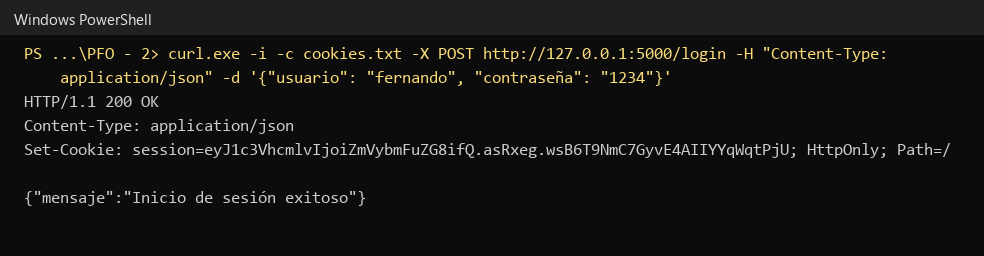
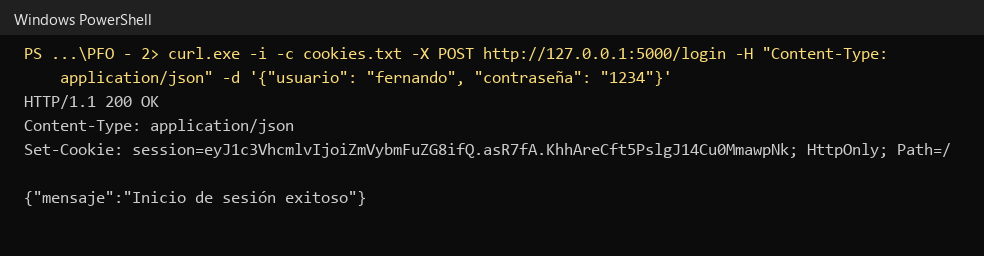
Formularios de login y registro, manejo de errores de base de datos y ampliación de pruebas y documentación

Changed region(s): [[0.5183, 0.5625, 0.8232, 0.625]]

diff --git a/docs/index.html b/docs/index.html
@@ -31,6 +31,7 @@
         <tr><td>POST</td><td><code>/registro</code></td><td>Crea un usuario con <code>{"usuario": "...", "contraseña": "..."}</code> y guarda el hash en SQLite.</td></tr>
         <tr><td>POST</td><td><code>/login</code></td><td>Verifica las credenciales e inicia la sesión.</td></tr>
         <tr><td>GET</td><td><code>/tareas</code></td><td>Muestra el HTML de bienvenida. Requiere sesión iniciada.</td></tr>
+        <tr><td>GET</td><td><code>/login</code> y <code>/registro</code></td><td>Formularios HTML para usar la API desde el navegador.</td></tr>
     </table>
 
     <h2>Ejecución</h2>
@@ -39,6 +40,7 @@ python servidor.py
 python cliente.py   # en otra terminal</pre>
 
     <h2>Pruebas realizadas</h2>
+    <p>Se ejecutaron 67 casos automatizados contra el servidor en funcionamiento (funcionalidad de la API, validación de entradas, caracteres especiales, seguridad, formularios y navegador, concurrencia, persistencia, errores de infraestructura y cliente de consola) y un recorrido manual completo en un navegador. Todos dieron el resultado esperado. El detalle está en el README del repositorio.</p>
     <figure>
         <img src="capturas/01-registro.png" alt="Registro de usuario">
         <figcaption>Registro de usuario (201).</figcaption>
@@ -62,6 +64,14 @@ python cliente.py   # en otra terminal</pre>
     <figure>
         <img src="capturas/06-cliente-consola.png" alt="Cliente de consola">
         <figcaption>Sesión completa con el cliente de consola.</figcaption>
+    </figure>
+    <figure>
+        <img src="capturas/07-navegador-login.png" alt="Formulario de login en el navegador">
+        <figcaption>Formulario de inicio de sesión en el navegador.</figcaption>
+    </figure>
+    <figure>
+        <img src="capturas/08-navegador-acceso-restringido.png" alt="Acceso restringido a /tareas">
+        <figcaption>Acceso a <code>/tareas</code> sin sesión desde un navegador.</figcaption>
     </figure>
 
     <h2>Respuestas conceptuales</h2>

diff --git a/servidor.py b/servidor.py
@@ -4,7 +4,7 @@ import socket
 import sqlite3
 import datetime
 
-from flask import Flask, jsonify, request, session
+from flask import Flask, jsonify, redirect, request, session
 from markupsafe import escape
 from werkzeug.security import generate_password_hash, check_password_hash
 
@@ -20,6 +20,62 @@ app.json.ensure_ascii = False
 # Clave con la que Flask firma la cookie de sesión. Se puede fijar con la variable de
 # entorno SECRET_KEY; si no existe se genera una aleatoria (las sesiones no sobreviven al reinicio)
 app.secret_key = os.environ.get("SECRET_KEY", secrets.token_hex(32))
+
+
+# Plantilla HTML de los formularios que se usan desde el navegador (registro y login).
+# Los marcadores __X__ se reemplazan en pagina_formulario()
+FORMULARIO = """<!DOCTYPE html>
+<html lang="es">
+<head>
+    <meta charset="utf-8">
+    <title>__TITULO__</title>
+    <style>
+        body { font-family: sans-serif; max-width: 360px; margin: 3rem auto; }
+        input, button { display: block; width: 100%; margin: 0.5rem 0; padding: 0.5rem; box-sizing: border-box; }
+    </style>
+</head>
+<body>
+    <h1>__TITULO__</h1>
+    <form id="formulario">
+        <input id="usuario" placeholder="Usuario" required>
+        <input id="contrasenia" type="password" placeholder="Contraseña" required>
+        <button type="submit">__BOTON__</button>
+    </form>
+    <p id="mensaje"></p>
+    <p><a href="__ENLACE__">__TEXTO_ENLACE__</a></p>
+    <script>
+        // Envía las credenciales como JSON al endpoint POST y muestra la respuesta del servidor
+        const destino = "__DESTINO__";
+        document.getElementById("formulario").addEventListener("submit", async (evento) => {
+            evento.preventDefault();
+            const respuesta = await fetch("__RUTA__", {
+                method: "POST",
+                headers: {"Content-Type": "application/json"},
+                body: JSON.stringify({
+                    usuario: document.getElementById("usuario").value,
+                    "contraseña": document.getElementById("contrasenia").value
+                })
+            });
+            const datos = await respuesta.json();
+            document.getElementById("mensaje").textContent = datos.mensaje || datos.error;
+            if (respuesta.ok) { window.location = destino; }
+        });
+    </script>
+</body>
+</html>"""
+
+# Página que ve el navegador al pedir /tareas sin haber iniciado sesión
+ACCESO_RESTRINGIDO = """<!DOCTYPE html>
+<html lang="es">
+<head>
+    <meta charset="utf-8">
+    <title>Acceso restringido</title>
+</head>
+<body>
+    <h1>Acceso restringido</h1>
+    <p>Para ver las tareas primero hay que <a href="/login">iniciar sesión</a>.</p>
+</body>
+</html>"""
 
 
 def conectar_bd():
@@ -60,6 +116,34 @@ def leer_credenciales():
     if not usuario or not contrasenia:
         return None, None
     return usuario, contrasenia
+
+
+def pagina_formulario(titulo, boton, ruta, destino, enlace, texto_enlace):
+    # Arma la página con el formulario que envía los datos a la ruta POST indicada
+    pagina = FORMULARIO
+    for marcador, valor in (("__TITULO__", titulo), ("__BOTON__", boton), ("__RUTA__", ruta),
+                            ("__DESTINO__", destino), ("__ENLACE__", enlace), ("__TEXTO_ENLACE__", texto_enlace)):
+        pagina = pagina.replace(marcador, valor)
+    return pagina
+
+
+# La raíz redirige al formulario de login
+@app.route("/", methods=["GET"])
+def inicio():
+    return redirect("/login")
+
+
+# Formularios para usar la API desde el navegador (GET); el procesamiento está en las rutas POST
+@app.route("/registro", methods=["GET"])
+def pagina_registro():
+    return pagina_formulario("Registro de usuario", "Registrarse", "/registro", "/login",
+                             "/login", "Ya tengo cuenta: iniciar sesión")
+
+
+@app.route("/login", methods=["GET"])
+def pagina_login():
+    return pagina_formulario("Iniciar sesión", "Ingresar", "/login", "/tareas",
+                             "/registro", "Crear una cuenta")
 
 
 # Endpoint de registro: guarda el usuario con la contraseña hasheada
@@ -122,6 +206,10 @@ def login():
 def tareas():
     usuario = session.get("usuario")
     if usuario is None:
+        # Un navegador (su cabecera Accept nombra text/html) recibe una página con el enlace
+        # al login; el resto de los clientes (curl, requests envían */*) reciben el error en JSON
+        if "text/html" in request.headers.get("Accept", ""):
+            return ACCESO_RESTRINGIDO, 401
         return jsonify(error="Acceso denegado: primero hay que iniciar sesión en /login"), 401
 
     # escape() evita que un nombre de usuario con HTML se interprete como código (XSS)
@@ -153,7 +241,12 @@ def puerto_disponible():
 
 
 if __name__ == "__main__":
-    inicializar_bd()
+    try:
+        inicializar_bd()
+    except sqlite3.Error as error:
+        print(f"No se pudo acceder a la base de datos: {error}")
+        raise SystemExit(1)
+
     if not puerto_disponible():
         print(f"No se pudo iniciar el servidor: el puerto {PORT} ya está en uso.")
     else:

diff --git a/README.md b/README.md
@@ -34,6 +34,7 @@ Consigna de la cátedra: implementar una API REST con endpoints funcionales, aut
 - Almacenamiento de contraseñas con `generate_password_hash` (scrypt con sal aleatoria).
 - Inicio de sesión que verifica el hash y abre una sesión mediante una cookie firmada.
 - Ruta `/tareas` protegida: responde 401 sin sesión y devuelve un HTML de bienvenida con sesión iniciada.
+- Formularios HTML en `/registro` y `/login` (método GET) para usar la API desde el navegador, y redirección de `/` al login. Un navegador que pide `/tareas` sin sesión recibe una página con el enlace al login.
 - Códigos de estado HTTP coherentes (201, 200, 400, 401, 409, 500) y respuestas de error en JSON.
 - Detección de puerto ocupado antes de iniciar el servidor.
 - Cliente de consola con menú, manejo de servidor caído y lectura de la contraseña sin eco.
@@ -120,6 +121,8 @@ Debe mostrar `Running on http://127.0.0.1:5000`. Al iniciar crea el archivo `usu
 python cliente.py
 ```
 
+3. Uso desde el navegador: abrir http://127.0.0.1:5000/ (redirige al login). El flujo es: crear una cuenta en `/registro`, iniciar sesión en `/login` y ver la bienvenida en `/tareas`.
+
 Variable opcional: `SECRET_KEY` define la clave con la que se firma la cookie de sesión. Si no se define, se genera una aleatoria al iniciar y las sesiones se pierden al reiniciar el servidor.
 
 ```
@@ -171,7 +174,16 @@ Devuelve el HTML de bienvenida. Requiere la cookie de sesión obtenida en `/logi
 | Código | Cuerpo | Cuándo |
 |---|---|---|
 | 200 | HTML con `¡Bienvenido, <usuario>!` | Sesión iniciada |
-| 401 | `{"error": "Acceso denegado: primero hay que iniciar sesión en /login"}` | Sin sesión |
+| 401 | `{"error": "Acceso denegado: primero hay que iniciar sesión en /login"}` | Sin sesión, cliente que no es un navegador (curl, requests) |
+| 401 | Página HTML "Acceso restringido" con enlace a `/login` | Sin sesión, navegador (la cabecera `Accept` incluye `text/html`) |
+
+### Rutas para el navegador
+
+| Método | Ruta | Respuesta |
+|---|---|---|
+| GET | `/` | Redirección 302 a `/login` |
+| GET | `/login` | Formulario HTML de inicio de sesión; envía los datos como JSON a `POST /login` y, si son correctos, redirige a `/tareas` |
+| GET | `/registro` | Formulario HTML de registro; envía los datos como JSON a `POST /registro` y, si son correctos, redirige a `/login` |
 
 ### Ejemplos con curl
 
@@ -230,23 +242,21 @@ Formato del hash almacenado: `scrypt:32768:8:1$<sal>$<hash>`, donde 32768, 8 y 1
 
 ## Pruebas
 
-Las pruebas se ejecutaron con el servidor en `127.0.0.1:5000`. Resultados verificados:
+Las pruebas se ejecutaron contra el servidor real (`127.0.0.1:5000`) con Python 3.9, Flask 3.1 y SQLite 3.44, en Windows 11. Se realizaron 67 casos automatizados contra el servidor en ejecución y un recorrido completo manual en un navegador. Todos dieron el resultado esperado.
 
-| N.° | Caso | Resultado esperado | Resultado |
-|---|---|---|---|
-| 1 | `GET /tareas` sin sesión | 401 | Correcto |
-| 2 | `POST /registro` con datos válidos | 201 | Correcto |
-| 3 | `POST /registro` con un usuario ya existente | 409 | Correcto |
-| 4 | `POST /registro` con un cuerpo que no es JSON | 400 | Correcto |
-| 5 | `POST /registro` sin el campo `contraseña` | 400 | Correcto |
-| 6 | `POST /registro` con campos que no son texto | 400 | Correcto |
-| 7 | `POST /login` con contraseña incorrecta | 401 | Correcto |
-| 8 | `POST /login` con un usuario inexistente | 401 | Correcto |
-| 9 | `POST /login` con credenciales correctas | 200 y cookie de sesión | Correcto |
-| 10 | `GET /tareas` con la cookie de sesión | 200 y HTML de bienvenida | Correcto |
-| 11 | Usuario con etiquetas HTML en el nombre | El HTML se muestra escapado | Correcto |
-| 12 | Contenido de la tabla `usuarios` | `password_hash` sin texto plano | Correcto |
-| 13 | Segundo `python servidor.py` con el puerto ocupado | Mensaje de error y salida sin iniciar | Correcto |
+| Categoría | Casos | Qué se verifica |
+|---|---|---|
+| Funcionalidad de la API | 7 | Registro (201), usuario repetido (409), login correcto (200), contraseña incorrecta y usuario inexistente (401), `/tareas` con y sin sesión |
+| Validación de entradas y rutas | 16 | Cuerpo que no es JSON, JSON malformado, lista o nulos, campos ausentes, vacíos o que no son texto, espacios en el nombre, `Content-Type` incorrecto, usuario de 5000 caracteres, métodos no permitidos (405) y rutas inexistentes (404) |
+| Caracteres especiales y datos extremos | 4 | Acentos, ñ y emoji en usuario y contraseña, contraseña de 100000 caracteres |
+| Seguridad | 14 | Inyección SQL (4 variantes en login y una en registro), integridad de la tabla, XSS en el nombre, cookie adulterada, inventada o basura, cookie legítima, atributo HttpOnly, hash almacenado sin texto plano |
+| Navegador y formularios | 8 | `/` redirige a `/login`, formularios de login y registro, página de acceso restringido para navegadores y JSON para otros clientes, cabecera `Accept` real de Chrome |
+| Concurrencia | 2 | 25 registros simultáneos del mismo usuario: exactamente un 201, 24 respuestas 409 y una sola fila en la base |
+| Persistencia y sesión | 4 | Los usuarios persisten al reiniciar el servidor; la sesión sigue válida con la misma `SECRET_KEY` y deja de serlo con otra |
+| Errores de infraestructura | 4 | Segundo servidor con el puerto ocupado, base de datos inaccesible al iniciar (mensaje claro, sin traceback), tabla inexistente en funcionamiento (500 en JSON) |
+| Cliente de consola | 8 | Registro, usuario repetido, login incorrecto y correcto, ver tareas, opción inválida, usuario vacío, servidor caído |
+
+Recorrido manual en el navegador: `/tareas` sin sesión muestra la página de acceso restringido, el enlace lleva a `/login`, desde ahí se abre `/registro`, se crea un usuario, se prueba una contraseña incorrecta (el formulario muestra el error), se inicia sesión con la contraseña correcta y se llega a la bienvenida en `/tareas`.
 
 Para ver el hash almacenado:
 
@@ -279,6 +289,14 @@ Respuestas de error (409 y 401):
 Sesión completa con el cliente de consola:
 
 ![Cliente de consola](docs/capturas/06-cliente-consola.png)
+
+Formulario de inicio de sesión en el navegador:
+
+![Formulario de login](docs/capturas/07-navegador-login.png)
+
+Acceso a `/tareas` sin sesión desde un navegador:
+
+![Acceso restringido](docs/capturas/08-navegador-acceso-restringido.png)
 
 ## Estructura del proyecto
 
